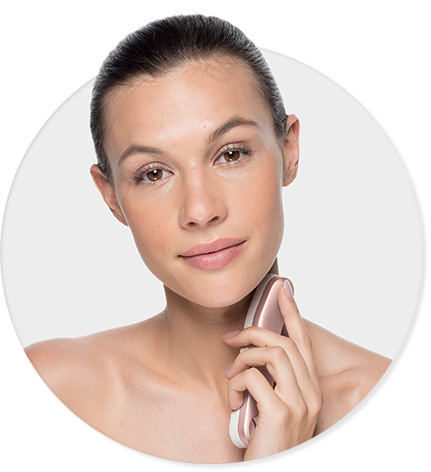
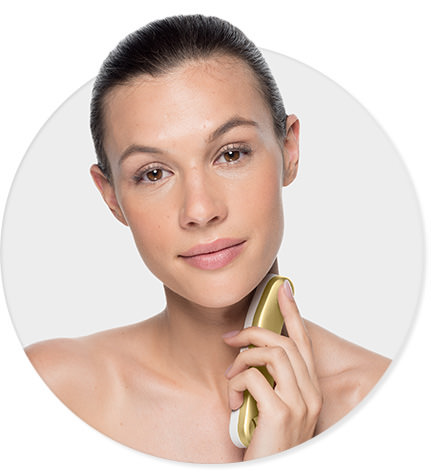
Revert "re rose gold site refresh"

Changed region(s): [[0.5731, 0.5636, 0.6937, 0.7415], [0.5429, 0.8305, 0.6032, 0.9492], [0.6032, 0.7712, 0.6334, 0.8305]]

diff --git a/skin/frontend/zonda/default/css/styles-zonda.css b/skin/frontend/zonda/default/css/styles-zonda.css
@@ -796,7 +796,7 @@ button.button span.name {
 }
 .footer-main ul li.phone,
 .footer-main ul li.phone a[href^=tel] {
-    color: #d19a8c;
+    color: #aa8436;
     font-weight: bold;
 }
 .footer-main .privacy-terms {
@@ -1284,7 +1284,7 @@ button.button span.name {
 }
 .ratings .rating-box {
   width: 80px;
-  background: url(../images/bkg-rating-rosegold.png) repeat-x 0 0;
+  background: url(../images/bkg-rating-gold.png) repeat-x 0 0;
   height: 15px;
   line-height: 0;
   overflow: hidden;
@@ -1295,7 +1295,7 @@ button.button span.name {
     background-size: 16px auto;
 }
 .rating-box .rating {
-  background: url(../images/bkg-rating-rosegold.png) repeat-x 0 100%;
+  background: url(../images/bkg-rating-gold.png) repeat-x 0 100%;
   height: 15px;
     background-size: 16px auto;
 }
@@ -1937,7 +1937,7 @@ a.highlight-link {
 
 .product-view .reviews-summary-wrap .rating-box {
     float: right;
-    background: url("../images/bkg-rating-lg-rosegold.png") repeat-x scroll 0 0 rgba(0, 0, 0, 0);
+    background: url("../images/bkg-rating-lg-gold.png") repeat-x scroll 0 0 rgba(0, 0, 0, 0);
     display: inline-block;
     height: 37px;
     line-height: 0;
@@ -1949,7 +1949,7 @@ a.highlight-link {
 }
 
 .product-view .reviews-summary-wrap .rating-box .rating {
-    background: url("../images/bkg-rating-lg-rosegold.png") repeat-x scroll 0 100% rgba(0, 0, 0, 0);
+    background: url("../images/bkg-rating-lg-gold.png") repeat-x scroll 0 100% rgba(0, 0, 0, 0);
     height: 37px;
     background-size: 40px auto;
 }
@@ -2804,7 +2804,7 @@ td.for-desktop {
 .checkout-cart-index .btn-continue, .checkout-cart-index .btn-update {
   background: transparent;
   font-size: 16px;
-  color: #d19a8c;
+  color: #a98236;
   text-transform: none;
 }
 .checkout-cart-index .btn-continue {
@@ -3587,7 +3587,7 @@ div.cart-empty {
 }
 /* new home page */
 .homepage-button-cta {
-    background: #d19a8c;
+    background: #c0a879;
     color: #fff;
     display: inline-block;
     font-family: "Lato", "Helvetica Neue", Helvetica, Arial, sans-serif;
@@ -3602,7 +3602,7 @@ div.cart-empty {
 }
 
 .homepage-section-lto .homepage-button-cta {
-    background: #d19a8c;
+    background: #c0a879;
 }
 
 .homepage-button-cta:after {
@@ -3618,7 +3618,7 @@ div.cart-empty {
 
 .homepage-button-cta:hover {
     color: #fff;
-    background: #be8677;
+    background: #8d6a26;
     text-decoration: none;
 }
 
@@ -3769,20 +3769,20 @@ div.cart-empty {
 
 #slide-1 .homepage-button-cta,
 #slide-2 .homepage-button-cta {
-    background: #222;
+    background: #a98236;
 }
 
 #slide-1 .homepage-button-cta:hover,
 #slide-2 .homepage-button-cta:hover {
-    background: #000;
+    background: #8d6a26;
 }
 
 #slide-3 .homepage-button-cta {
-    background: #222;
+    background: #6197c9;
 }
 
 #slide-3 .homepage-button-cta:hover {
-    background: #000;
+    background: #3d71a1;
 }
 
 .homepage-hero-banner--copy p {
@@ -3915,7 +3915,7 @@ ul.homepage-content-worksgreat-list ul {
 }
 
 .homepage-content-worksgreat-list ul li:before {
-    color: #d19a8c;
+    color: #a98236;
     content: "+";
     font-weight: 600;
     height: 28px;
@@ -3958,7 +3958,7 @@ ul.homepage-content-worksgreat-list ul {
 }
 
 .homepage-section-lto-content .homepage-heading h3 .special {
-    color: #d19a8c;
+    color: #c0a879;
 }
 
 .homepage-section-lto-content p {
@@ -4403,7 +4403,7 @@ ul.homepage-content-worksgreat-list ul {
   display: block;
   width: 49px;
   height: 49px;
-  background: url(../images/backtotop-rosegold.png) no-repeat left top;
+  background: url(../images/backtotop-gold.png) no-repeat left top;
   background-size: auto 49px;
   text-indent: -999em;
 }
@@ -5165,7 +5165,7 @@ div.menu a, #nav li a, #blog_nav li a, #nav-links a {
     overflow: hidden;
 }
 .catalog-product-view #affirm-learn-more span {
-    color:#d19a8c;
+    color:#a98236;
 }
 .catalog-product-view #affirm-learn-more .affirm-logo {
     width: auto;
@@ -5197,7 +5197,7 @@ div.menu a, #nav li a, #blog_nav li a, #nav-links a {
 }
 
 .cms-wrapper a {
-    color: #d19a8c;
+    color: #a98236;
     outline: none;
 }
 
@@ -5243,14 +5243,14 @@ div.menu a, #nav li a, #blog_nav li a, #nav-links a {
 
 .refurbished-faqs-container .refurb-cta .button {
     background-color: #fff;
-    border: 1px solid #d19a8c;
+    border: 1px solid #c0a879;
     padding: 0 24px;
     margin-top: 12px;
     color: #333;
 }
 
 .refurbished-faqs-container .refurb-cta .button:hover {
-    background: #d19a8c;
+    background: #c0a879;
     color: #fff;
 }
 
@@ -6378,7 +6378,7 @@ h2.jenu-howitworks-header-h2 strong {
   overflow: hidden;
 }
 .jenu-howitworks-body-features .howitworks-blue-plus {
-  color: #d19a8c;
+  color: #a98236;
 }
 .howitworks-bottomcopy {
     font-size: 14px;
@@ -6620,7 +6620,7 @@ h2.jenu-howitworks-header-h2 strong {
 .cms-international-ordering-and-shipping .cslinks-left .cslinks li.international-ordering-and-shipping a,
 .cms-privacy-policy .cslinks-left .cslinks li.privacy-policy a,
 .cms-terms-and-conditions .cslinks-left .cslinks li.terms-and-conditions a {
-    color: #d19a8c;
+    color: #a98236;
 }
 
 .cms-faqs .cslinks-left .cslinks li.faqs a:hover,

diff --git a/skin/frontend/zonda/default/css/store_default.css b/skin/frontend/zonda/default/css/store_default.css
@@ -19,10 +19,10 @@ h6,
     color: #333;
 }
 a {
-    color: #d19a8c;
+    color: #a98236;
 }
 a:hover {
-    color: #be8677;
+    color: #8b651b;
 }
 .button,
 .sbToggle,
@@ -30,14 +30,14 @@ a:hover {
 .pager .pages ol li.current,
 .button-normal {
     display: inline-block;
-    background-color: #222;
+    background-color: #a98236;
     font-family: "Lato","Helvetica Neue", Helvetica, Arial, sans-serif;
     color: #ffffff;
     font-size: 13px;
     text-transform: uppercase;
 }
 .cms-no-route .main-content .form-search .input-text {
-    border: solid 1px #be8677;
+    border: solid 1px #0067aa;
 }
 .pager .pages ol li a {
     color: #ffffff;
@@ -51,14 +51,14 @@ a:hover {
 .btn-remove2:hover,
 .btn-remove:hover
 {
-    background-color: #000;
+    background-color: #926e28;
     color: #ffffff;
 }
 .button.link-wishlist:hover,
 .button.link-wishlist:focus,
 .button.link-compare:hover,
 .button.link-compare:focus {
-    background-color: #000;
+    background-color: #926e28;
 }
 .pager .pages ol li a:hover,
 .pager .pages ol li a:focus {
@@ -287,7 +287,7 @@ div.menu.active a,
 #blog_nav>li.active>a,
 #blog_nav>li.over>a
 {
-    color: #d19a8c;
+    color: #a98236;
     background-color: #ffffff;
     background-image: none;
 }
@@ -339,7 +339,7 @@ div.eternal-custom-menu-popup a.level1,
 #nav ul li.level1 a,
 #blog_nav ul li.level1 a{
     font-size: 13px;
-    color: #d19a8c;
+    color: #a98236;
 }
 div.eternal-custom-menu-popup a.level2,
 .menu-mobile a.level2,
@@ -362,7 +362,7 @@ div.eternal-custom-menu-popup a.level1:hover,
 .menu-mobile a.level1:hover,
 div.eternal-custom-menu-popup a.level2:hover,
 .menu-mobile a.level2:hover{
-    color: #d19a8c;
+    color: #a98236;
 }
 #menu-button .btn-navbar .icon-bar {
     background-color: #a1abb3;
@@ -467,12 +467,12 @@ div.eternal-custom-menu-popup a.level2:hover,
 }
 .footer-main a:hover,
 .footer-main a:focus {
-    color: #be8677;
+    color: #0067aa;
     padding-left: 5px;
 }
 .footer-top a:hover,
 .footer-top a:focus {
-    color: #be8677;
+    color: #0067aa;
     padding-left: 5px;
 }
 .footer-top .fblike-box a:hover,
@@ -483,11 +483,11 @@ div.eternal-custom-menu-popup a.level2:hover,
 }
 .footer-top #twitter-footer-slider a,
 .footer-main .fblike-box .facebook-like-wrap a {
-    color: #be8677;
+    color: #0067aa;
 }
 .footer-main #twitter-footer-slider a,
 .footer-main .fblike-box .facebook-like-wrap a {
-    color: #be8677;
+    color: #0067aa;
 }
 .footer address{
     font-size: 13px;

diff --git a/skin/frontend/zonda/default/css/eternal/custommenu.css b/skin/frontend/zonda/default/css/eternal/custommenu.css
@@ -454,7 +454,7 @@ div.eternal-custom-menu-popup a.level1,
 
 #nav .submega-right a.submega-cta {
     width: auto;
-    color: #d19a8c;
+    color: #a98236;
     text-transform: uppercase;
     font-size: 11px;
     padding: 0;
